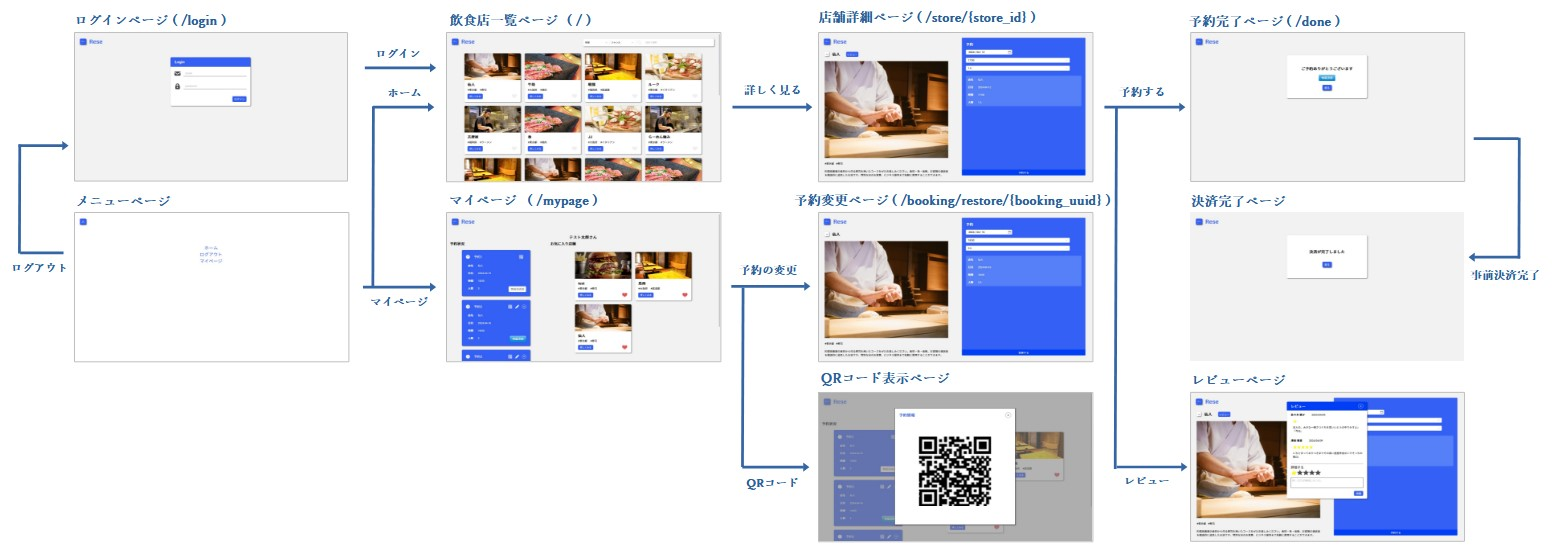
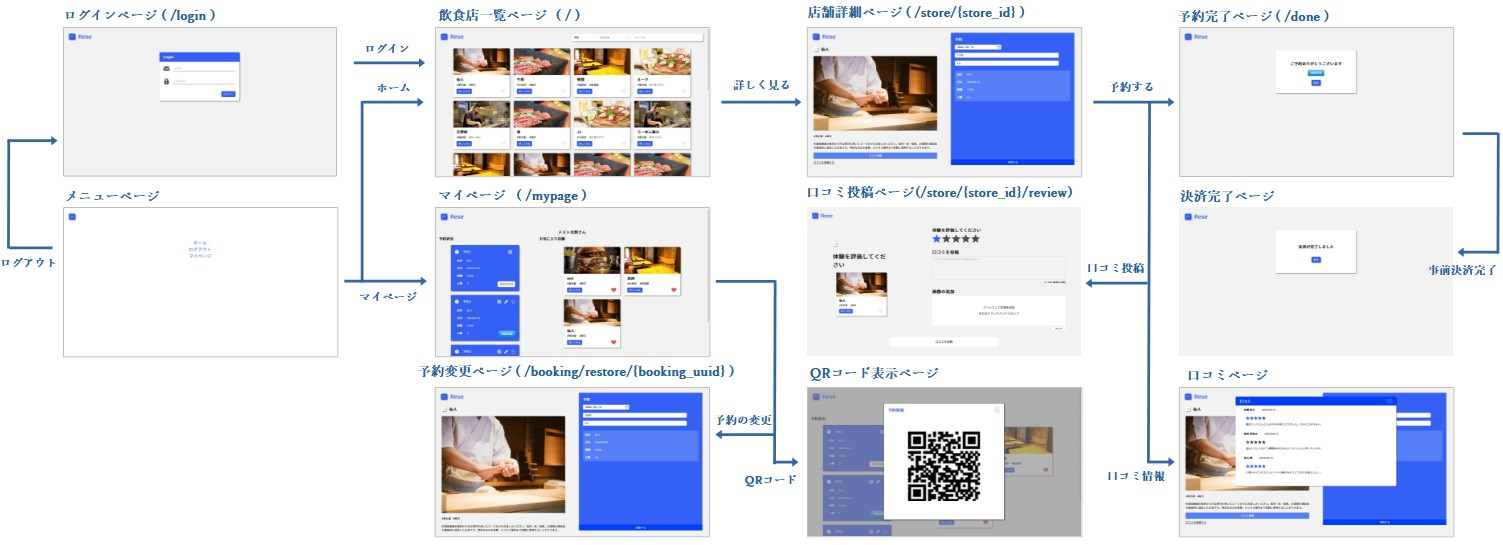
READMEを修正

diff --git a/README.md b/README.md
@@ -15,61 +15,43 @@
 - phpMyAdmin：http://localhost:8080/
 - mailhog：http://localhost:8025/
 
-### テスト環境
-
-![ER図](<./img/インフラ環境(test).png>)
-
-- RDS、S3 を利用せず、EC2 インスタンス内でデータベースおよびストレージを保持
-- 会員登録時のメール認証は mailhog を利用し確認。
-- アプリケーション URL：https://rese-test.tanuko.xyz
-- phpMyAdmin：http://rese-test.tanuko.xyz:8080/
-- mailhog：http://rese-test.tanuko.xyz:8025/
-
-### 本番環境
-
-![ER図](<./img/インフラ環境(product).png>)
-
-- データベースは RDS、ストレージは S3 を使用
-- 会員登録時のメール認証は gmail の smtp サーバを利用。
-- アプリケーション URL：https://rese.tanuko.xyz
-
 ## 他のリポジトリ
 
 なし
 
 ## 機能一覧
 
-| 項目                         | 備考                                                                                                                                                                                                                                                                                                                  |
-| ---------------------------- | --------------------------------------------------------------------------------------------------------------------------------------------------------------------------------------------------------------------------------------------------------------------------------------------------------------------- |
-| 会員登録                     | 会員登録ページから会員登録ができる。                                                                                                                                                                                                                                                                                  |
-| ログイン                     | ログインページからログインができる。                                                                                                                                                                                                                                                                                  |
-| ログアウト                   | メニューからログアウトを選択することで認証情報をクリアできる。                                                                                                                                                                                                                                                        |
-| ユーザー情報取得             | ユーザー情報を取得し、マイページでのユーザー名の表示やユーザー認証を行うことができる。                                                                                                                                                                                                                                |
-| ユーザー飲食店お気に入り取得 | マイページでユーザーのお気に入り店舗を取得し一覧表示できる。                                                                                                                                                                                                                                                          |
-| ユーザー飲食店予約情報取得   | マイページでユーザーが持つ予約情報を取得し一覧表示できる。<br>ただし、当日以降の予約のみを表示し、過去の予約は表示しない。                                                                                                                                                                                            |
-| 飲食店一覧取得               | データベースに登録されている飲食店の一覧を取得・表示できる。                                                                                                                                                                                                                                                          |
-| 飲食点詳細取得               | 登録されている飲食店のそれぞれの詳細情報を取得・表示できる。                                                                                                                                                                                                                                                          |
-| 飲食店お気に入り追加         | ユーザーごとに飲食店をお気に入り追加することができる。                                                                                                                                                                                                                                                                |
-| 飲食店お気に入り削除         | 作成したお気に入り情報を削除することができる。                                                                                                                                                                                                                                                                        |
-| 飲食店予約情報追加           | ユーザーごとに飲食店の予約情報を追加することができる。<br>予約日は当日～ 3 か月後までを選択できる。<br>予約時間は 17:00 ~ 21:00 の間で 30 分間隔で選択できる。<br>予約人数は 1 人 ~ 10 人までを選択できる。                                                                                                           |
-| 飲食店予約情報削除           | 作成した予約情報を削除することができる。<br>ただし、事前決済実行後は削除不可とする。                                                                                                                                                                                                                                  |
-| エリア検索                   | 飲食店をエリアで検索することができる。<br>セレクトボックスでアイテムを選択時に実行。                                                                                                                                                                                                                                  |
-| ジャンル検索                 | 飲食店をジャンルで検索することができる。<br>セレクトボックスでアイテムを選択時に実行。                                                                                                                                                                                                                                |
-| 店名検索                     | 飲食店を店名で検索することができる。部分検索可。<br>キーワード入力後 Enter キー入力、あるいは虫眼鏡アイコンをクリックで実行。                                                                                                                                                                                         |
-| 予約変更機能                 | 予約日時および予約人数をマイページから変更することができる。<br>ただし、事前決済実行後は変更不可とする                                                                                                                                                                                                                |
-| 予約変更機能                 | 予約したお店に来店した後に、利用者が店舗を 5 段階評価とコメントができるようにする。<br>レビューは店舗詳細ページからいつでも行えるものとし、多重投稿は不可とする。                                                                                                                                                     |
-| 評価機能                     | 予約したお店に来店した後に、利用者が店舗を 5 段階評価とコメントができるようにする。<br>レビューは店舗詳細ページからいつでも行えるものとし、多重投稿は不可とする。                                                                                                                                                     |
-| バリデーション               | 認証と予約の際にバリデーションをかける。FormRequest を使用する。<br>Users 認証は Fortify を使用。Managers、Admins 認証は LoginRequest、予約は BookingRequest を使用。                                                                                                                                                 |
-| レスポンシブデザイン         | タブレット・スマートフォン用のレスポンシブデザインを作成する。<br>ブレイクポイントは 768px とする。最少は 360px を想定。                                                                                                                                                                                              |
-| 管理画面                     | 管理者と店舗代表者と利用者の 3 つの権限を作成する。<br>店舗代表者が店舗情報の作成、更新と予約情報の確認ができる管理画面を作成する。<br>管理者側は店舗代表者を作成できる管理画面を作成する。<br>テーブルはそれぞれ別々に作成し、ログインページもそれぞれ用意した。<br>店舗代表者は一人で複数店舗を管理することを想定。 |
-| ストレージ                   | お店の画像をストレージに保存することができる。<br>(rese/storage/app/public/storeImage/)                                                                                                                                                                                                                                                                        |
-| 認証                         | メールによって本人確認を行うことができる。                                                                                                                                                                                                                                                                            |
-| メール送信                   | 管理画面から利用者にお知らせメールを送信することができる。<br>お知らせメール配信ページから利用者あるいは店舗代表者に対しメールを送信できる。                                                                                                                                                                          |
-| リマインダー                 | タスクスケジューラーを利用して、予約当日の朝に予約情報のリマインダーを送る。<br>リマインドメールは午前 8：00 の時点で当日の予約を行っているユーザーに対し送信する。<br>タイマーは systemd のタイマーを使用する。                                                                                                      |
-| QR コード                    | 利用者が来店した際に店舗側に見せる QR コードを発行し、お店側は照合することができる。<br>利用者側がマイページ上で表示した予約情報データを含む QR コードを店舗側が読み込むことで来店確認を行うことができる。<br>QR コードの読み込みにカメラ機能を使用するため、ローカル環境以外では SSL 化を行い https 接続を行う。     |
-| 決済機能                     | Stripe を利用して決済をすることができる。<br>価格は一律 1 人当たり￥ 3,000 とし、予約人数から支払額を算出する。<br>決済は予約完了時、あるいはマイページから行うことができる。<br>(メールアドレス：適当、カード番号：4242 4242 4242 4242、有効期限：切れていない日付、セキュリティコード：適当に3桁)<br>決済完了後はシステム上で予約の変更、キャンセルは不可とする。                                                                         |
-| AWS                          | ストレージを S3、バックエンドを EC2、データベースを RDS として環境を構築する。                                                                                                                                                                                                                                        |
-| 環境の切り分け               | 開発環境と本番環境の切り分けを行う。<br>本番環境でのみ、ストレージは S3、データベースは RDS を利用する。<br>また、".env"内の APP_ENV キーで処理を切り分ける。<br>ローカル環境：local, テスト環境：testing、本番環境：production                                                                                       |
+| 項目                         | 備考                                                                                                                                                                                                                                                                                                                                                                  |
+| ---------------------------- | --------------------------------------------------------------------------------------------------------------------------------------------------------------------------------------------------------------------------------------------------------------------------------------------------------------------------------------------------------------------- |
+| 会員登録                     | 会員登録ページから会員登録ができる。                                                                                                                                                                                                                                                                                                                                  |
+| ログイン                     | ログインページからログインができる。                                                                                                                                                                                                                                                                                                                                  |
+| ログアウト                   | メニューからログアウトを選択することで認証情報をクリアできる。                                                                                                                                                                                                                                                                                                        |
+| ユーザー情報取得             | ユーザー情報を取得し、マイページでのユーザー名の表示やユーザー認証を行うことができる。                                                                                                                                                                                                                                                                                |
+| ユーザー飲食店お気に入り取得 | マイページでユーザーのお気に入り店舗を取得し一覧表示できる。                                                                                                                                                                                                                                                                                                          |
+| ユーザー飲食店予約情報取得   | マイページでユーザーが持つ予約情報を取得し一覧表示できる。<br>ただし、当日以降の予約のみを表示し、過去の予約は表示しない。                                                                                                                                                                                                                                            |
+| 飲食店一覧取得               | データベースに登録されている飲食店の一覧を取得・表示できる。                                                                                                                                                                                                                                                                                                          |
+| 飲食点詳細取得               | 登録されている飲食店のそれぞれの詳細情報を取得・表示できる。                                                                                                                                                                                                                                                                                                          |
+| 飲食店お気に入り追加         | ユーザーごとに飲食店をお気に入り追加することができる。                                                                                                                                                                                                                                                                                                                |
+| 飲食店お気に入り削除         | 作成したお気に入り情報を削除することができる。                                                                                                                                                                                                                                                                                                                        |
+| 飲食店予約情報追加           | ユーザーごとに飲食店の予約情報を追加することができる。<br>予約日は当日～ 3 か月後までを選択できる。<br>予約時間は 17:00 ~ 21:00 の間で 30 分間隔で選択できる。<br>予約人数は 1 人 ~ 10 人までを選択できる。                                                                                                                                                           |
+| 飲食店予約情報削除           | 作成した予約情報を削除することができる。<br>ただし、事前決済実行後は削除不可とする。                                                                                                                                                                                                                                                                                  |
+| エリア検索                   | 飲食店をエリアで検索することができる。<br>セレクトボックスでアイテムを選択時に実行。                                                                                                                                                                                                                                                                                  |
+| ジャンル検索                 | 飲食店をジャンルで検索することができる。<br>セレクトボックスでアイテムを選択時に実行。                                                                                                                                                                                                                                                                                |
+| 店名検索                     | 飲食店を店名で検索することができる。部分検索可。<br>キーワード入力後 Enter キー入力、あるいは虫眼鏡アイコンをクリックで実行。                                                                                                                                                                                                                                         |
+| 予約変更機能                 | 予約日時および予約人数をマイページから変更することができる。<br>ただし、事前決済実行後は変更不可とする                                                                                                                                                                                                                                                                |
+| 予約変更機能                 | 予約したお店に来店した後に、利用者が店舗を 5 段階評価とコメントができるようにする。<br>レビューは店舗詳細ページからいつでも行えるものとし、多重投稿は不可とする。                                                                                                                                                                                                     |
+| バリデーション               | 認証と予約の際にバリデーションをかける。FormRequest を使用する。<br>Users 認証は Fortify を使用。                                                                                                                                                                                                                                                                     |
+| レスポンシブデザイン         | タブレット・スマートフォン用のレスポンシブデザインを作成する。<br>ブレイクポイントは 768px とする。最少は 360px を想定。                                                                                                                                                                                                                                              |
+| 管理画面                     | 管理者と店舗代表者と利用者の 3 つの権限を作成する。<br>店舗代表者が店舗情報の作成、更新と予約情報の確認ができる管理画面を作成する。<br>管理者側は店舗代表者を作成できる管理画面を作成する。<br>テーブルはそれぞれ別々に作成し、ログインページもそれぞれ用意した。<br>店舗代表者は一人で複数店舗を管理することを想定。                                                 |
+| ストレージ                   | 画像をストレージに保存することができる。<br>(rese/storage/app/public/)                                                                                                                                                                                                                                                                                                |
+| 認証                         | メールによって本人確認を行うことができる。                                                                                                                                                                                                                                                                                                                            |
+| メール送信                   | 管理画面から利用者にお知らせメールを送信することができる。<br>お知らせメール配信ページから利用者あるいは店舗代表者に対しメールを送信できる。                                                                                                                                                                                                                          |
+| リマインダー                 | タスクスケジューラーを利用して、予約当日の朝に予約情報のリマインダーを送る。<br>リマインドメールは午前 8：00 の時点で当日の予約を行っているユーザーに対し送信する。<br>タイマーは systemd のタイマーを使用する。                                                                                                                                                      |
+| QR コード                    | 利用者が来店した際に店舗側に見せる QR コードを発行し、お店側は照合することができる。<br>利用者側がマイページ上で表示した予約情報データを含む QR コードを店舗側が読み込むことで来店確認を行うことができる。<br>QR コードの読み込みにカメラ機能を使用するため、ローカル環境以外では SSL 化を行い https 接続を行う。                                                     |
+| 決済機能                     | Stripe を利用して決済をすることができる。<br>価格は一律 1 人当たり￥ 3,000 とし、予約人数から支払額を算出する。<br>決済は予約完了時、あるいはマイページから行うことができる。<br>(メールアドレス：適当、カード番号：4242 4242 4242 4242、有効期限：切れていない日付、セキュリティコード：適当に 3 桁)<br>決済完了後はシステム上で予約の変更、キャンセルは不可とする。 |
+| 口コミ投稿                   | 一般ユーザーは店舗に対し口コミを追加することができる。<br>口コミは「テキスト・星(1~5)・画像」で構成される。                                                                                                                                                                                                                                                           |
+| 店舗一覧のソート             | 一般ユーザーは店舗一覧を並び替えることができる。<br>選択肢は「ランダム」、「評価が高い順」、「評価が低い順」。                                                                                                                                                                                                                                                        |
+| 店舗データの csv インポート  | 店舗代表者は店舗データを csv ファイルからインポートできる。                                                                                                                                                                                                                                                                                                           |
 
 ## 使用技術(実行環境)
 
@@ -83,9 +65,7 @@
 - cashier 13.17.0
 - stripe/stripe-php 9.9.0
 - league/flysystem 1.1.10
-- adminphp 5.2.1
 - mailhog
-- https-portal
 
 ## テーブル設計
 
@@ -134,7 +114,7 @@
    `docker-compose exec php bash`
 2. ライブラリのインストール (PHP)  
    `composer install`
-3. .env.example ファイルから.env を作成し、環境変数を変更(terminal)  
+3. .env.example ファイルから.env を作成し、環境変数を変更(terminal)
 
    - "docker-compose.yml"を参考に DB の設定を修正
    - 送信元アドレスの値(MAIL_FROM_ADDRESS)に任意の値を入力
@@ -174,6 +154,61 @@
 12. 実行確認 (terminal)  
     `systemctl list-timers`
 
-### その他
+## その他
 
 - メニュー部、検索部の英文は分かりやすさを目的に日本語に変更
+
+### 追加実装項目について (2024/05/16)
+
+1. 口コミ機能
+   - 手順
+     - 口コミ投稿
+       1. ユーザー権限でログイン (/login)
+       2. 適当な店舗の詳細ページを開く
+       3. 口コミが未投稿であれば、店舗詳細分の下に口コミ投稿ページへのリンクが表示される
+       4. 口コミ投稿ページでレート、口コミ内容、イメージ画像（任意）を入力し投稿
+     - 口コミ編集
+       1. ユーザー権限でログイン (/login)
+       2. 適当な店舗の詳細ページを開く
+       3. 口コミを投稿済みであれば、店舗詳細分の下に口コミ編集ページへのリンクが表示される
+       4. 口コミ編集ページでレート、口コミ内容、イメージ画像（任意）を編集し更新
+     - 口コミ削除
+       1. ユーザー権限でログイン (/login)
+       2. 適当な店舗の詳細ページを開く
+       3. 口コミを投稿済みであれば、店舗詳細分の下に口コミ削除ボタンが表示される
+     - 口コミ削除（管理者）
+       1. 管理者権限でログイン (/admin/login)
+       2. メニューから口コミ一覧ページを開く
+       3. 削除ボタンで削除
+   - 変更点
+     1. 口コミの一覧が口コミ投稿前でも見れるよう変更
+     2. 口コミ投稿（編集）ページに戻るボタンを追加
+     3. 口コミ投稿（編集）ページにイメージ画像のクリアボタンを追加
+2. 店舗一覧ソート機能
+
+   - 手順
+     1. ホーム (/) を開く
+     2. 検索バーの左のセレクトボックスでソート種類を選択
+
+3. csv インポート
+
+   - 手順
+
+     1. 店舗代表者権限でログイン (/manager/login)
+     2. CSV インポートボタンをクリック
+     3. CSV ファイルの選択ボタンをクリックし、CSV ファイルを選択する
+     4. データを確認し、下部インポートボタンをクリックし、インポートを実行する。
+     5. バリデーションを通過できない場合は、データを修正あるいはチェックボックスでデータを除外し、インポートする。
+
+   - csv ファイルフォーマット  
+      1 行目はヘッダー、1 列目は Noのため読み取らない。
+      列順はNo、店舗名、地域、ジャンル、店舗詳細、画像URLとする
+
+     作成例)
+
+     ```
+     No,店舗名,地域,ジャンル,店舗詳細,画像URL
+     1,マイ店舗-1,東京都,寿司,東京の美味しい寿司屋,https://coachtech-matter.s3-ap-northeast-1.amazonaws.com/image/sushi.jpg
+     2,マイ店舗-2,大阪府,焼肉,大阪の本場焼肉,https://coachtech-matter.s3-ap-northeast-1.amazonaws.com/image/yakiniku.jpg
+     3,マイ店舗-3,福岡県,ラーメン,博多ラーメン,https://coachtech-matter.s3-ap-northeast-1.amazonaws.com/image/ramen.jpg
+     ```
